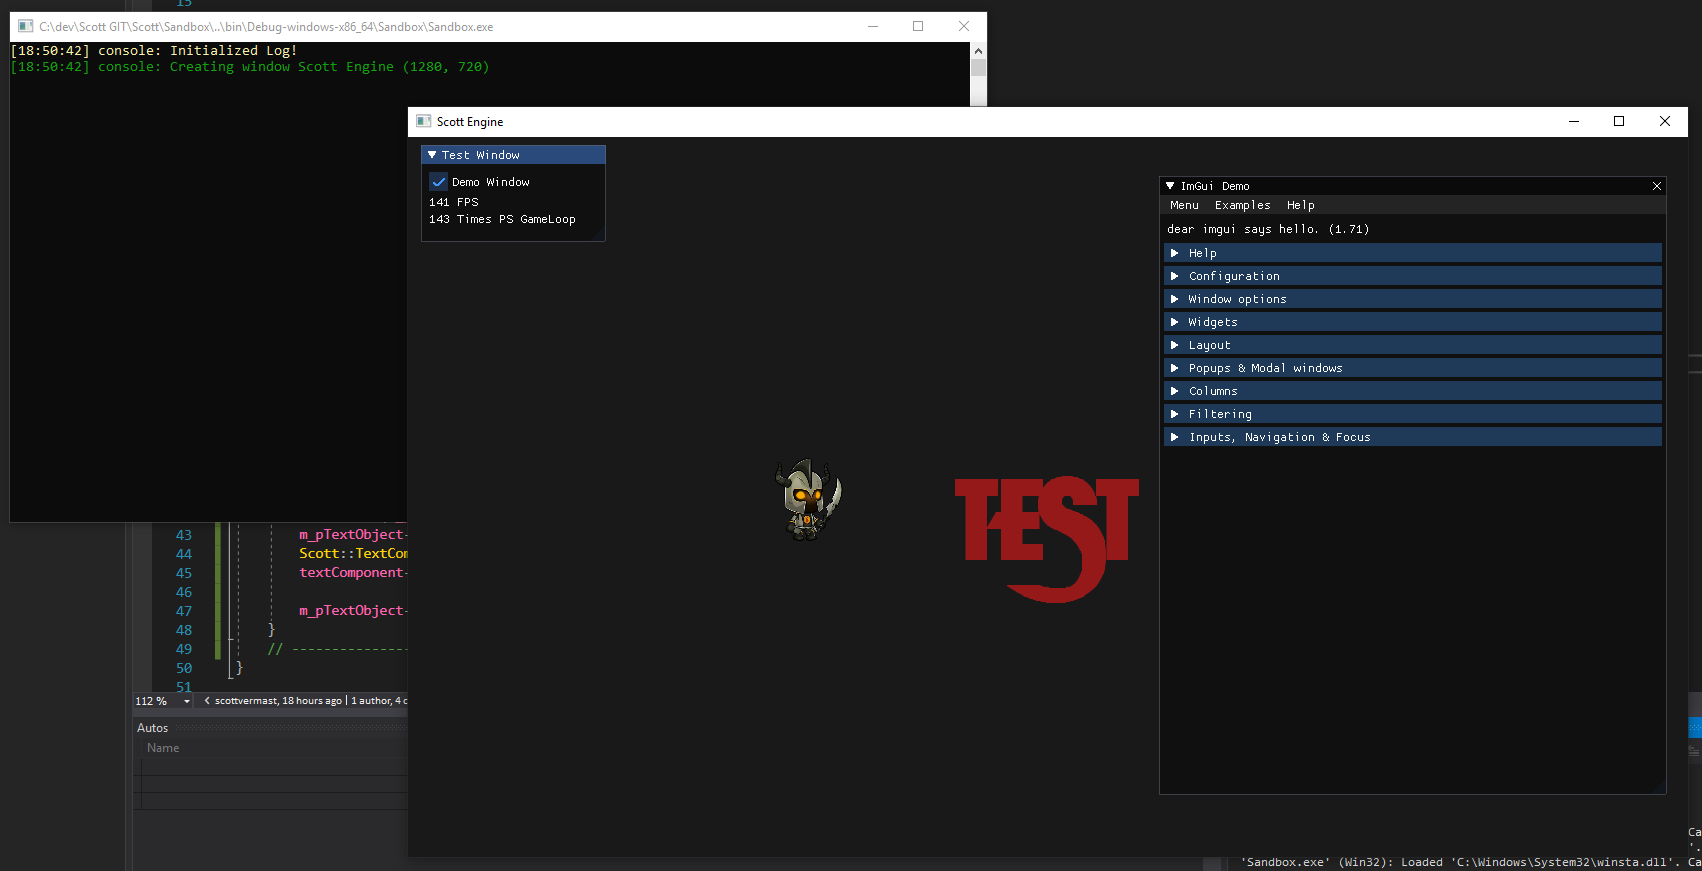
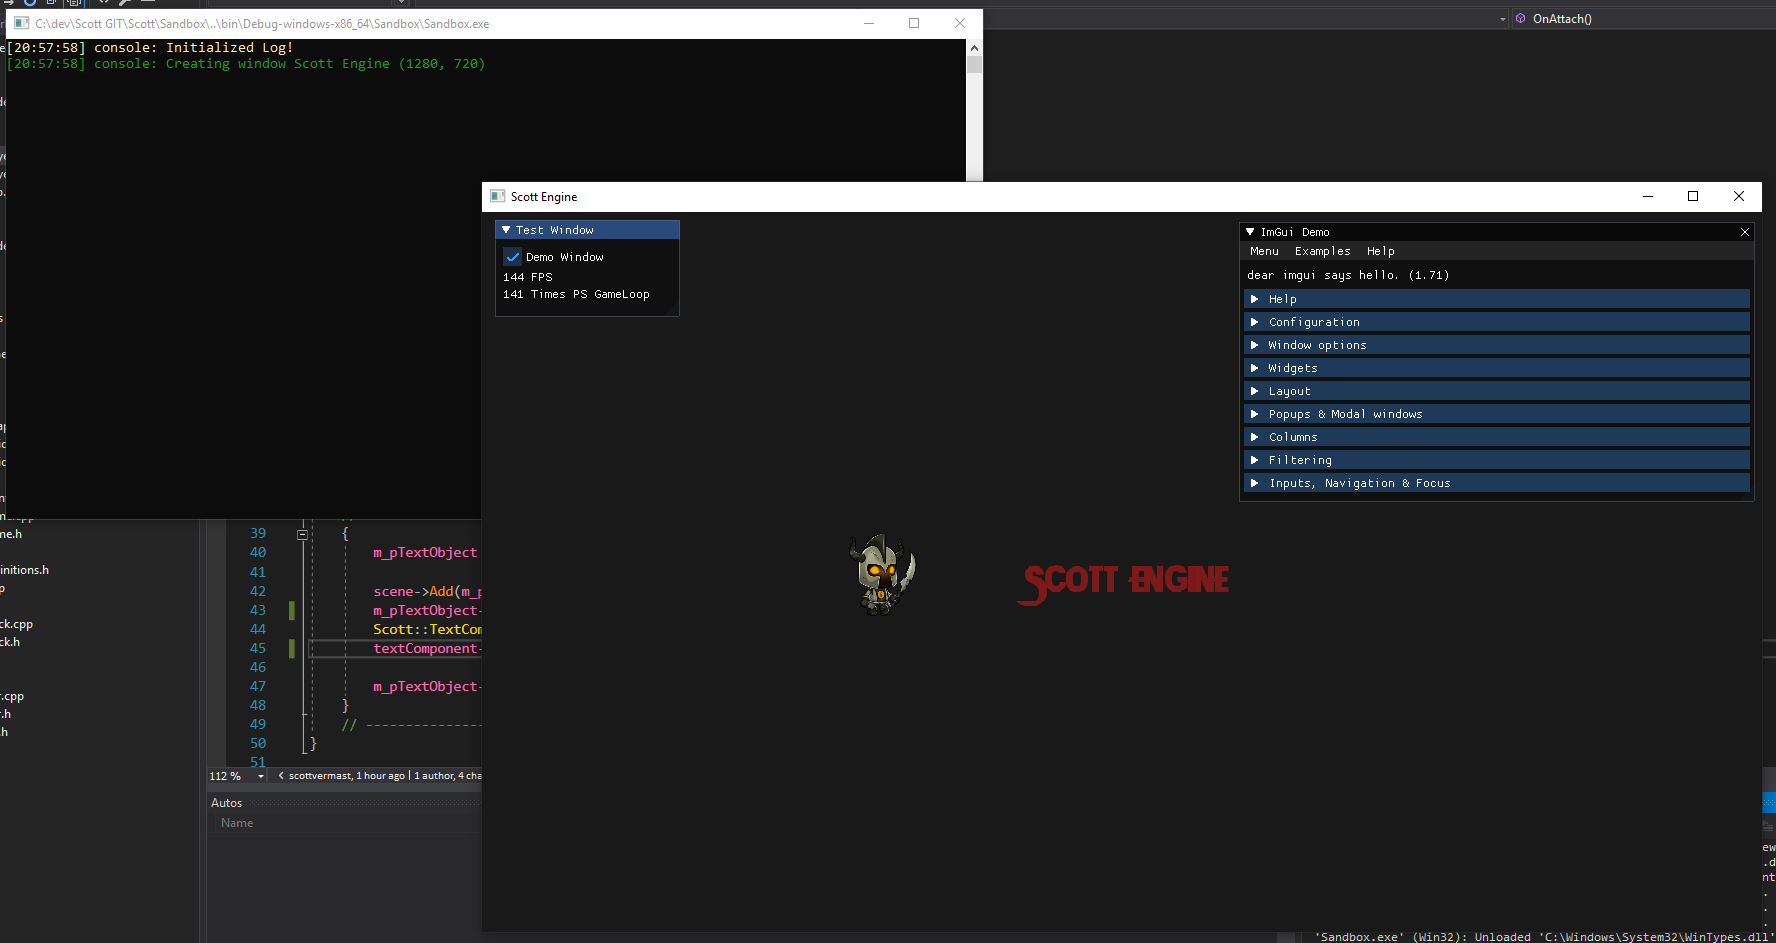
updated screenshot

diff --git a/Sandbox/src/Layers/GameLayer.cpp b/Sandbox/src/Layers/GameLayer.cpp
@@ -40,9 +40,9 @@ void GameLayer::OnAttach()
 		m_pTextObject = new Scott::GameObject("TextObject");
 
 		scene->Add(m_pTextObject);
-		m_pTextObject->AddComponent(new Scott::TextComponent("WRESTLEMANIA.ttf", "TEST", 200));
+		m_pTextObject->AddComponent(new Scott::TextComponent("WRESTLEMANIA.ttf", "Scott Engine", 64));
 		Scott::TextComponent* textComponent = m_pTextObject->GetComponent<Scott::TextComponent>();
-		textComponent->SetColor(SDL_Color({ 150, 25, 25, 255 }));
+		textComponent->SetColor(SDL_Color({ 125, 25, 25, 255 }));
 
 		m_pTextObject->GetTransform()->TranslateWorld(640.0f, 360.0f);
 	}
